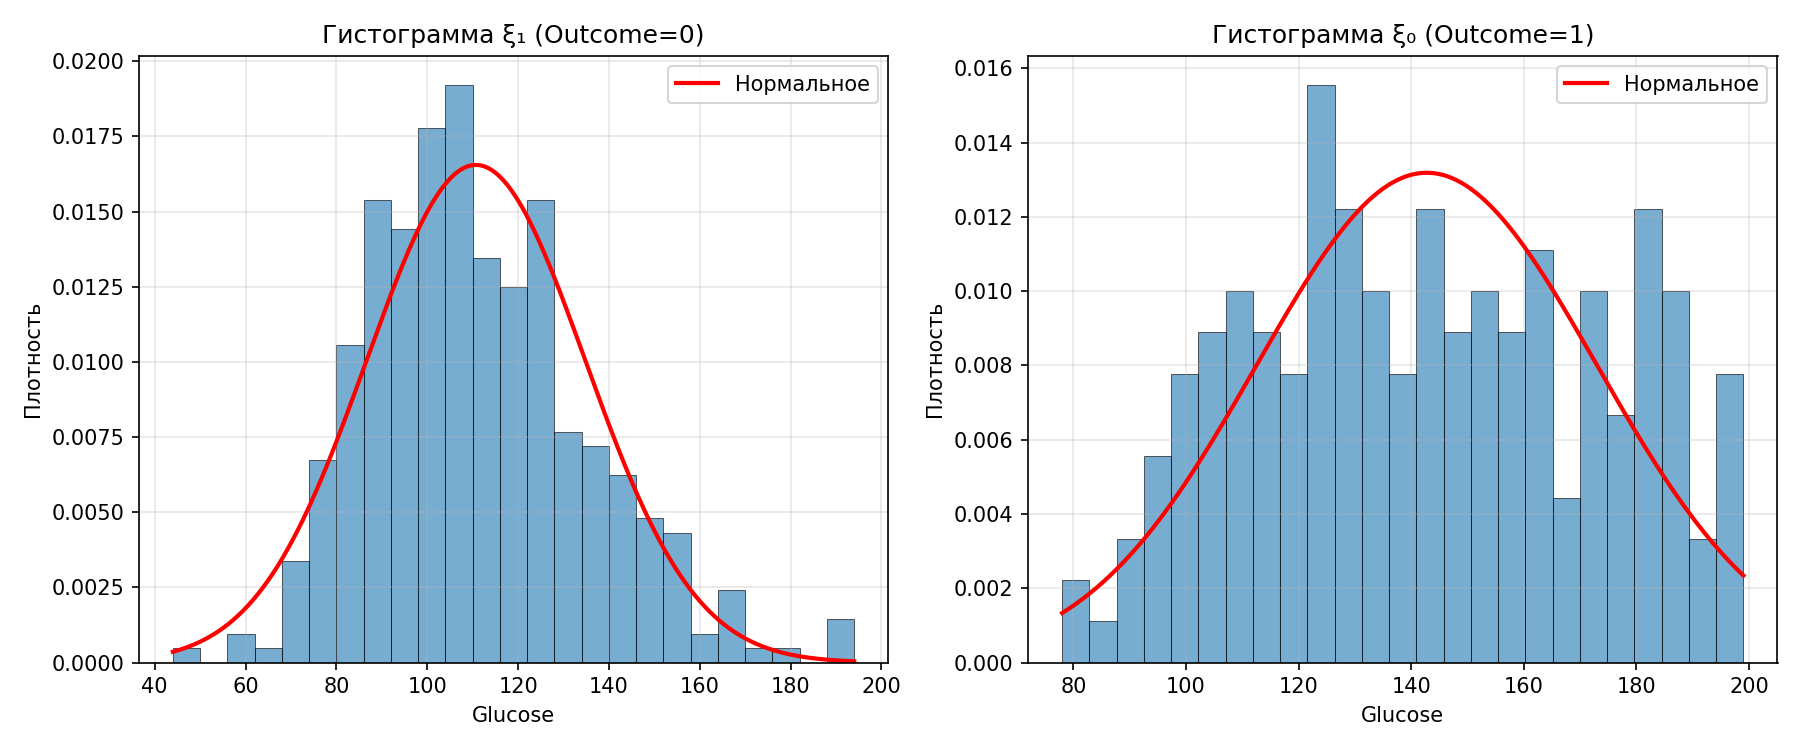
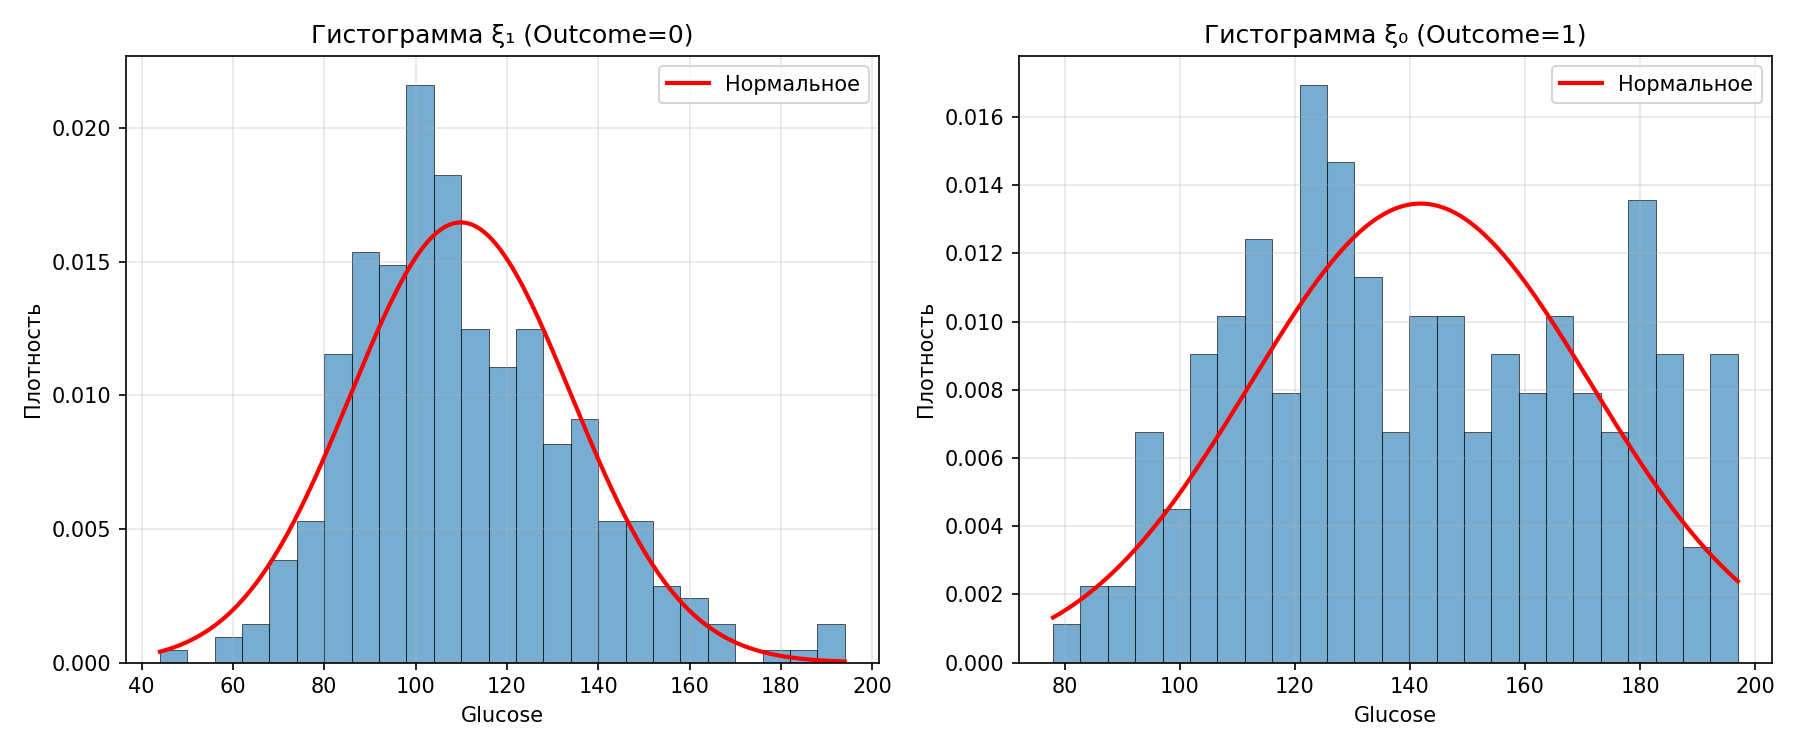
Seed=848409, D_train=0.0650, D_test=0.0633

diff --git a/lab3/lab3.py b/lab3/lab3.py
@@ -34,42 +34,9 @@ def ks_two_sample(sample1, sample2):
     D = np.max(np.abs(f1 - f2))
     return D, all_x, f1, f2
 
-# Подбор seed: ищем разбиение, при котором max(D_train, D_test) минимален
-
-def evaluate_seed(seed):
-    rng = np.random.default_rng(seed)
-    idx1 = rng.permutation(len(xi1_all))
-    idx0 = rng.permutation(len(xi0_all))
-    s1 = int(0.7 * len(xi1_all))
-    s0 = int(0.7 * len(xi0_all))
-    x1_tr = xi1_all[idx1[:s1]].astype(float)
-    x0_tr = xi0_all[idx0[:s0]].astype(float)
-    x1_te = xi1_all[idx1[s1:]].astype(float)
-    x0_te = xi0_all[idx0[s0:]].astype(float)
-    ln1 = np.log(x1_tr)
-    ln0 = np.log(x0_tr)
-    b = math.sqrt(np.var(ln0, ddof=0) / np.var(ln1, ddof=0))
-    a = math.exp(np.mean(ln0) - b * np.mean(ln1))
-    D_tr, _, _, _ = ks_two_sample(a * x1_tr**b, x0_tr)
-    D_te, _, _, _ = ks_two_sample(a * x1_te**b, x0_te)
-    return D_tr, D_te
-
-print(f"\n{'='*55}")
-print(f"Подбор seed (перебор 0..9999)...")
-print(f"{'='*55}")
-best_seed, best_max = 0, 1.0
-for s in range(10000):
-    dt, dte = evaluate_seed(s)
-    mx = max(dt, dte)
-    if mx < best_max:
-        best_max = mx
-        best_seed = s
-print(f"  Лучший seed = {best_seed}, max(D_train, D_test) = {best_max:.4f}")
-
 # Разделение на рабочую и контрольную выборки
 
-SEED = best_seed
-rng = np.random.default_rng(SEED)
+rng = np.random.default_rng(848409)
 idx1 = rng.permutation(len(xi1_all))
 idx0 = rng.permutation(len(xi0_all))
 split1 = int(0.7 * len(xi1_all))
